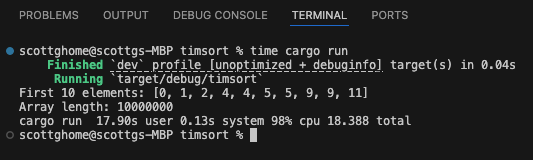
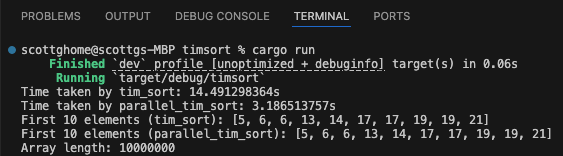
add parallel timsort

diff --git a/src/main.rs b/src/main.rs
@@ -4,6 +4,8 @@
 // Larger portions of the array are handled by merge_sort().
 
 use rand::Rng;
+use rayon::prelude::*;
+use std::time::Instant;
 
 // constant for minimum run size
 const RUN: usize = 32;
@@ -88,13 +90,49 @@ fn tim_sort(arr: &mut [i32]) {
     }
 }
 
+// parallel application of tim_sort
+fn parallel_tim_sort(arr: &mut [i32]) {
+    let len = arr.len();
+
+    arr.par_chunks_mut(RUN).for_each(|chunk| {
+        insertion_sort(chunk, 0, chunk.len() - 1);
+    });
+
+    let mut size = RUN;
+    while size < len {
+        arr.par_chunks_mut(2 * size).for_each(|chunk| {
+            let chunk_len = chunk.len();
+            if chunk_len > size {
+                let mid = size - 1;
+                let right = chunk_len - 1;
+                merge_sort(chunk, 0, mid, right); 
+            }
+        });
+        size *= 2;
+    }
+}
+
 fn main() {
-
     let mut rng = rand::thread_rng();
-    let mut arr: Vec<i32> = (0..ARRAY_SIZE).map(|_| rng.gen_range(0..ARRAY_SIZE)).collect();
+    
+    // Create two identical arrays for fair comparison
+    let mut arr1: Vec<i32> = (0..ARRAY_SIZE).map(|_| rng.gen_range(0..ARRAY_SIZE)).collect();
+    let mut arr2 = arr1.clone();
 
-    tim_sort(&mut arr);
+    // Time the original tim_sort
+    let start = Instant::now();
+    tim_sort(&mut arr1);
+    let duration = start.elapsed();
+    println!("Time taken by tim_sort: {:?}", duration);
 
-    println!("First 10 elements: {:?}", &arr[..10]);
-    println!("Array length: {}", arr.len());
+    // Time the parallel_tim_sort
+    let start = Instant::now();
+    parallel_tim_sort(&mut arr2);
+    let duration = start.elapsed();
+    println!("Time taken by parallel_tim_sort: {:?}", duration);
+
+    // Verify results
+    println!("First 10 elements (tim_sort): {:?}", &arr1[..10]);
+    println!("First 10 elements (parallel_tim_sort): {:?}", &arr2[..10]);
+    println!("Array length: {}", arr1.len());
 }
